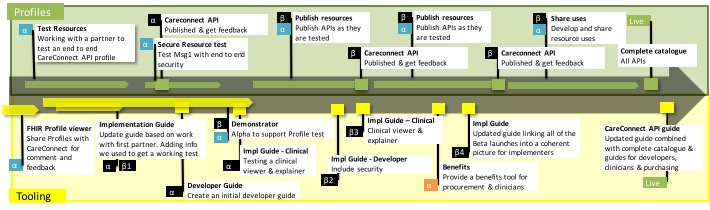
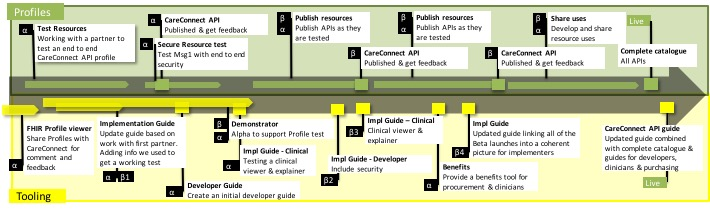
Update images

diff --git a/index.md b/index.md
@@ -24,7 +24,7 @@ Find out more on the [INTEROPen website](http://interopen.org/).
 
 This site is broadly structured around a typical API Developer's Journey. The current site is concentrated on the green boxes higlighted below in the developer journey:
 
-<img src="images/roadmap/developer-ecosystem.jpg" style="width:100%;"> 
+<img src="images/roadmap/developer-ecosystem.jpg" style="width:100%;max-width: 100%;"> 
 
 NHS Digital is contributing to progressing the profile developmenet and testing process and invitations are open for the INTEROPen community to get involved and progress the wider developer ecosystem.
 
@@ -32,6 +32,6 @@ NHS Digital is contributing to progressing the profile developmenet and testing 
 
 The [Care Connect API roadmap](design_development_roadmap.html) outlines the resource development roadmap schedule for the RESTful APIs outlined within this site.
 
-<img src="images/roadmap/roadmap-online.jpg" style="width:100%;">
+<img src="images/roadmap/roadmap-online.jpg" style="width:100%;max-width: 100%;"> 
 
 The above roadmap illustrates the steps necessary to create, test and verify the profiles as well as some of the supporting tooling which might be necessary to build to provide viable APIs. The roadmap is not intended to be complete but to promote discussion, extension and engagement from the INTEROPen community.
